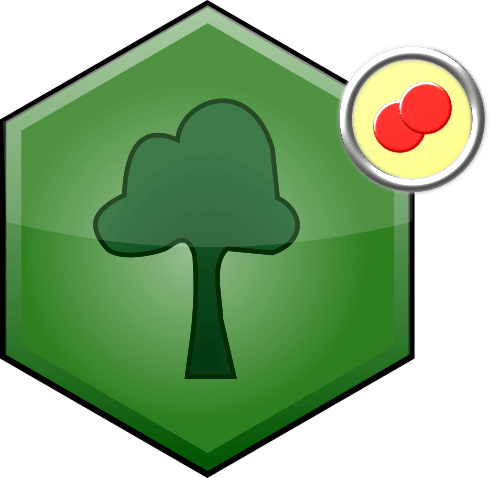
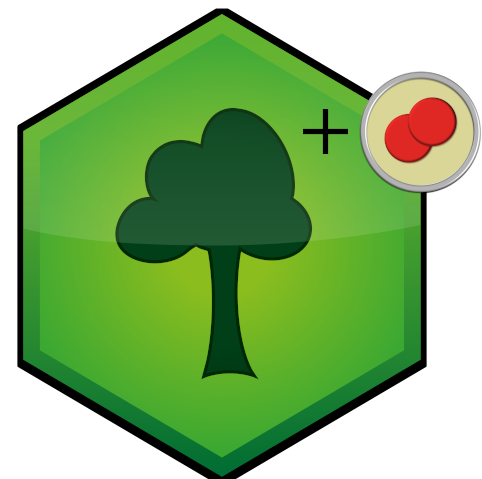
tenta navires rouges + some modif/clean images

diff --git a/cards-list.html b/cards-list.html
@@ -12136,7 +12136,7 @@
               <div class="red-arrow"></div>
               <div class="money resource">1</div>
               /
-              <div class="tile special-tile red-outline"></div>
+              <div class="tile red-ships-tile-red-outline"></div>
               <div class="tile ocean-tile" style="margin-left: -3px;">
               </div>
               *

diff --git a/cards-list-j2.html b/cards-list-j2.html
@@ -6893,7 +6893,7 @@
               <div class="red-arrow"></div>
               <div class="money resource">1</div>
               /
-              <div class="tile special-tile red-outline"></div>
+              <div class="tile red-ships-tile-red-outline"></div>
               <div class="tile ocean-tile" style="margin-left: -3px;">
               </div>
               *

diff --git a/css/mystyles.css b/css/mystyles.css
@@ -1629,6 +1629,10 @@ li.global-card::before {
   line-height: 44px;
 }
 
+.red-ships-tile-red-outline {
+  background-image: url(../images/tiles/red_ships.png);
+}
+
 .oxygen-tile-small {
   background-image: url(../images/global-parameters/oxygen.png);
   width: 36px;
